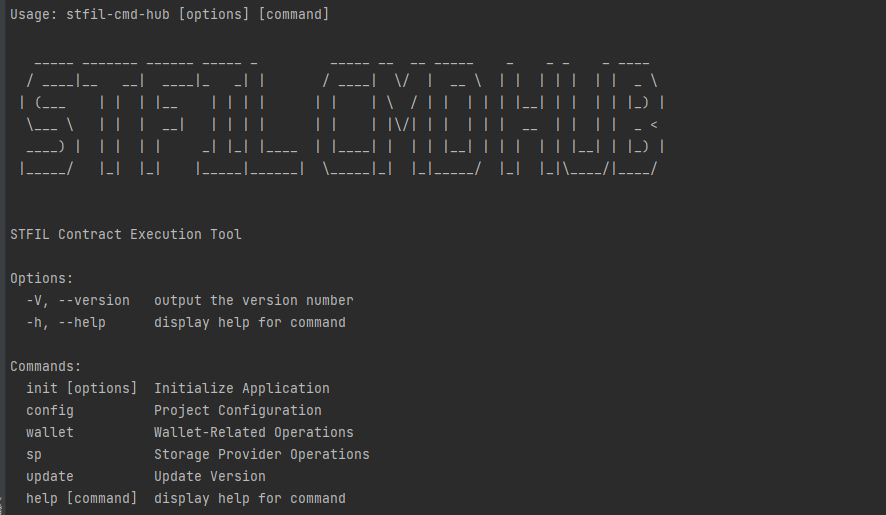
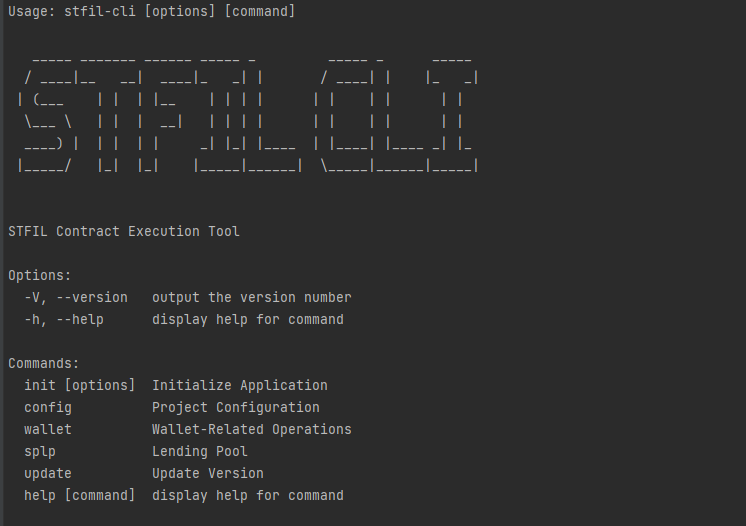
update README.md

diff --git a/README.md b/README.md
@@ -38,39 +38,94 @@ stfil-cli init
 2. Use the passphrase entered by the user to encrypt and save the private key, but then you need to enter an additional password every time you
 
 
+### Add Wallet
+```sh
+stfil-cli wallet add
+```
+### Wallet List
+```sh
+stfil-cli wallet list
+```
 ### Wallet details
 ```sh
 stfil-cli wallet info
 ```
 
-### Node details
+### Lending Pool add
 ```sh
-stfil-cli sp info f041385
+stfil-cli splp add 0xc5A520f9Ea2DB52805f570741B1E869E07f308d4
 ```
 
-### Storage provider loan
-Variable rate borrowing 10FIL
+### Lending Pool list
 ```sh
-stfil-cli sp sealLoan f041385 10
-```
-Stable rate borrowing 10FIL
-```sh
-stfil-cli sp sealLoan -r 1 f041385 10
+stfil-cli splp list
 ```
 
-### Pool details
+### Lending Pool info
 ```sh
-stfil-cli sp pool info 0xc5A520f9Ea2DB52805f570741B1E869E07f308d4
+stfil-cli splp info
+```
+
+### Node info
+```sh
+stfil-cli splp node info f041395
 ```
 
 ### Borrowing pool operation
 Variable rate borrowing 10FIL
 ```sh
-stfil-cli sp pool sealLoan 0xc5A520f9Ea2DB52805f570741B1E869E07f308d4 f041395 10
+stfil-cli splp node sealLoan -r v -a 10 f041395 
 ```
 Stable rate borrowing 10FIL
 ```sh
-stfil-cli sp pool sealLoan -r 1 0xc5A520f9Ea2DB52805f570741B1E869E07f308d4 f041395 10
+stfil-cli splp node sealLoan -r r -a 10 f041395 
+```
+
+### Timed automatic borrowing
+
+Checks every minute if the available balance in the wallet is less than the specified value, if so borrows
+
+Examples:
+When the available balance is less than 100, borrow 100
+
+```sh
+stfil-cli splp node autoSealLoad -alt 100 -a 100 f041395
+```
+
+### Timed automatic repayment
+
+Checks every minute if the available balance in the wallet is greater than the specified value, and if so, debits the
+Examples:
+Repayment of 100 when the available balance is greater than 100
+
+```sh
+stfil-cli splp node autoRepay -agt 100 -a 100 f041395
+```
+
+
+## Docker Install
+
+```sh
+git clone https://github.com/stfil-io/stfil-cli.git
+cd stfil-cli
+docker build -t stfil-cli .
+docker run -it stfil-cli
+```
+When running with docker, you need to complete the initialization operations
+
+When running with docker, you need to complete the initialization operation, and when the container is ready, exit the container command line using 
+```sh
+Ctrl + P followed by  Ctrl + Q
+```
+The container restart operation needs to be reparameterized, using the following command
+
+```sh
+docker start -i <CONTAINER ID>
+```
+
+Use this command to exit the container
+```sh
+Ctrl + P followed by  Ctrl + Q
 ```
 
 ## Author
